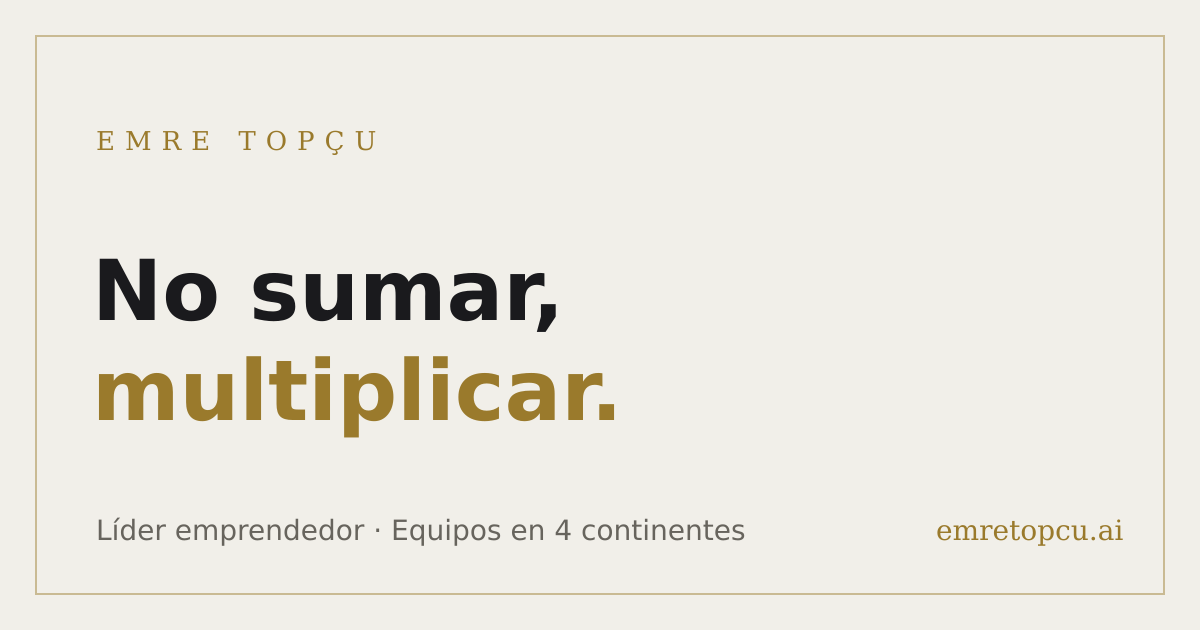
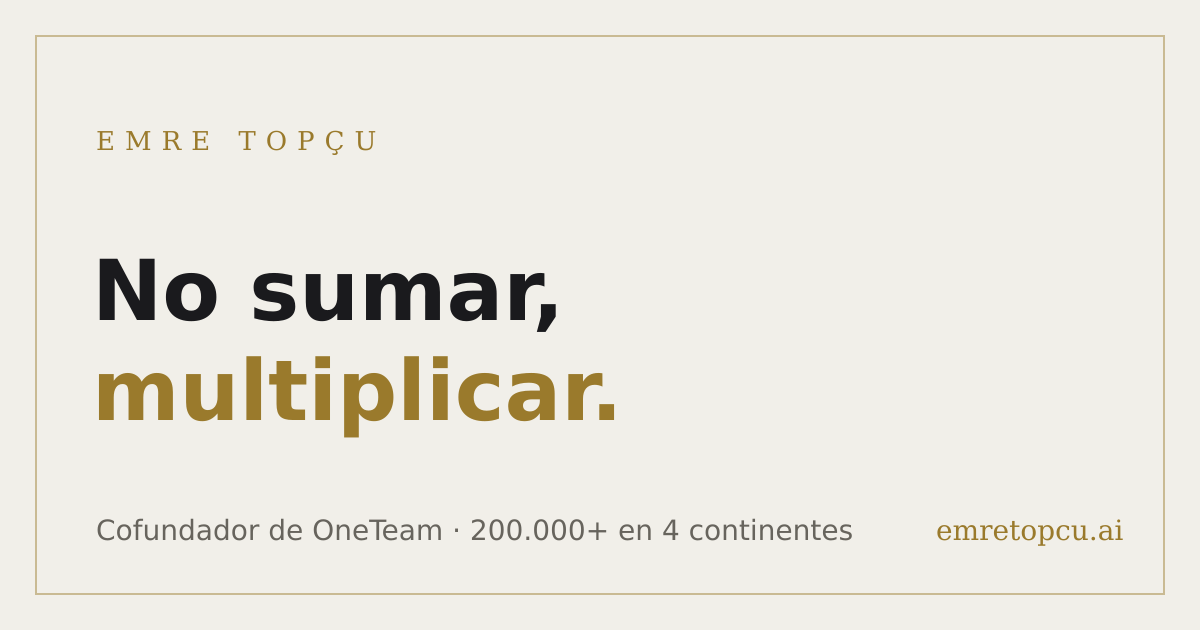
emretopcu.ai: kimlik satırı Instagram biyografisinden türetildi
Hero + SEO + medya kiti + JSON-LD + OG görselleri (6 dil):
"OneTeam kurucu ortağı · 4 kıtada 200.000+ kişilik ağ" ve
"doğrudan satış profesyonelleri yetiştiriyor / ölçeklenebilir
sistemler / gezgin ve yazar" dili — kullanıcının kendi herkese açık
biyografisindeki doğrulanabilir ifadeler.

Claude-Session: https://claude.ai/code/session_01WxT5Cp1egk22cXnqNm4aK9

Changed region(s): [[0.0925, 0.8143, 0.7092, 0.8746]]

diff --git a/emretopcu-com/lib/icerik.ts b/emretopcu-com/lib/icerik.ts
@@ -85,10 +85,10 @@ const TR = {
     baslikSatir2: "katlama.",
     altMetin:
       "Bu sektörde herkes eklemeyi bir şekilde keşfeder. Katlanacağını ise sadece umar — en büyük oyuncular dahil. Kimse, ama kimse tek başına başarmadı.",
-    rol: "4 kıtada ekipler kuran girişimci lider",
+    rol: "OneTeam kurucu ortağı · 4 kıtada 200.000+ kişilik ağ",
   },
   hakkimda: {
-    unvan: "4 kıtada ekipler kuran girişimci lider",
+    unvan: "OneTeam kurucu ortağı · 4 kıtada 200.000+ kişilik ağ",
     paragraflar: [
       "Doğrudan satışla tanışıklığım 2003'e, üniversite yıllarıma kadar uzanır; bir aloe vera markasının distribütörü olarak katalogla çalışmayı öğrendim. Bugünkü işime Şubat 2013'te başladım: sekiz ayda ilk büyük liderlik seviyesine, üç buçuk yılda şirketin en üst liderlik seviyesine ulaştım. Bu yolda en çok inandığım şey şu: kalıcı büyüme karizmayla değil, herkesin uygulayabildiği net bir sistemle olur.",
       "Kocaeli Üniversitesi Uluslararası İlişkiler mezunuyum; yazarım, evli ve iki çocuk babasıyım. 27 yıldır iş hayatının içindeyim, 17 yıldır kendi işlerimi yapıyorum. 38 ülke gezdim; 4 kıtada 250.000'e yakın kişilik bir müşteri ağının kurulmasına vesile oldum. Amerika'dan İngiltere'ye birçok ülkede kişisel gelişim eğitimleri verdim; bugün İstanbul'da yaşıyor, iş insanlarına başarı koçluğu yapıyorum.",
@@ -530,10 +530,10 @@ const EN: Icerik = {
     baslikSatir2: "Multiplying.",
     altMetin:
       "In this industry everyone discovers how to add sooner or later. Whether it multiplies, they only hope — even the biggest players. No one, but no one, ever made it alone.",
-    rol: "Entrepreneurial leader building teams on 4 continents",
+    rol: "Co-founder of OneTeam · 200,000+ people across 4 continents",
   },
   hakkimda: {
-    unvan: "Entrepreneurial leader building teams on 4 continents",
+    unvan: "Co-founder of OneTeam · 200,000+ people across 4 continents",
     paragraflar: [
       "My history with direct sales goes back to 2003, my university years, when I distributed an aloe vera brand through a catalog model. I started my current business in February 2013: the company's first major leadership level in eight months, its very top level in three and a half years. What I believe most on this path: lasting growth comes not from charisma, but from a clear system anyone can apply.",
       "I'm a graduate of International Relations at Kocaeli University; a writer, married, father of two. I've been in business for 27 years, running my own ventures for 17. I've traveled to 38 countries and helped build a customer network of nearly 250,000 people across 4 continents. I've given personal-development trainings in many countries from the US to the UK; today I live in Istanbul and coach business people toward success.",

diff --git a/emretopcu-com/lib/icerikRu.ts b/emretopcu-com/lib/icerikRu.ts
@@ -14,10 +14,10 @@ export const RU: Icerik = {
     baslikSatir2: "а умножение.",
     altMetin:
       "В этой индустрии сложение рано или поздно открывает каждый. А что оно умножится — лишь надеются, даже самые крупные игроки. Никто, вообще никто не добился успеха в одиночку.",
-    rol: "Предприниматель и лидер — команды на 4 континентах",
+    rol: "Сооснователь OneTeam · Более 200 000 человек на 4 континентах",
   },
   hakkimda: {
-    unvan: "Предприниматель и лидер — команды на 4 континентах",
+    unvan: "Сооснователь OneTeam · Более 200 000 человек на 4 континентах",
     paragraflar: [
       "Моё знакомство с прямыми продажами началось в 2003 году, ещё в университетские годы: как дистрибьютор бренда алоэ вера я учился работать с каталогом. Своё сегодняшнее дело я начал в феврале 2013-го: за восемь месяцев достиг первого крупного уровня лидерства, за три с половиной года — высшего уровня компании. Во что я верю на этом пути больше всего: устойчивый рост приходит не от харизмы, а от ясной системы, которую может применить каждый.",
       "Я выпускник факультета международных отношений Университета Коджаэли; писатель, женат, отец двоих детей. 27 лет я в деловой жизни, 17 лет веду собственные дела. Объездил 38 стран; помог построить клиентскую сеть почти в 250 000 человек на 4 континентах. Проводил тренинги по личностному росту во многих странах — от Америки до Англии; сегодня живу в Стамбуле и работаю коучем успеха для предпринимателей.",

diff --git a/emretopcu-com/lib/icerikDe.ts b/emretopcu-com/lib/icerikDe.ts
@@ -14,10 +14,10 @@ export const DE: Icerik = {
     baslikSatir2: "multiplizieren.",
     altMetin:
       "In dieser Branche entdeckt früher oder später jeder, wie man addiert. Ob es sich multipliziert, erhoffen sie nur — selbst die größten Akteure. Niemand, wirklich niemand, hat es allein geschafft.",
-    rol: "Unternehmer und Leader mit Teams auf 4 Kontinenten",
+    rol: "OneTeam-Mitgründer · Über 200.000 Menschen auf 4 Kontinenten",
   },
   hakkimda: {
-    unvan: "Unternehmer und Leader mit Teams auf 4 Kontinenten",
+    unvan: "OneTeam-Mitgründer · Über 200.000 Menschen auf 4 Kontinenten",
     paragraflar: [
       "Meine Berührung mit dem Direktvertrieb reicht bis 2003 zurück, in meine Studienzeit; als Vertriebspartner einer Aloe-vera-Marke lernte ich, mit dem Katalog zu arbeiten. Mein heutiges Geschäft begann ich im Februar 2013: in acht Monaten die erste große Führungsstufe, in dreieinhalb Jahren die höchste Stufe des Unternehmens. Woran ich auf diesem Weg am meisten glaube: Nachhaltiges Wachstum entsteht nicht durch Charisma, sondern durch ein klares System, das jeder anwenden kann.",
       "Ich bin Absolvent der Internationalen Beziehungen an der Kocaeli Üniversitesi; Autor, verheiratet und Vater von zwei Kindern. Seit 27 Jahren bin ich im Berufsleben, seit 17 Jahren führe ich eigene Unternehmungen. Ich habe 38 Länder bereist; ich war Wegbereiter für den Aufbau eines Kundennetzwerks von fast 250.000 Menschen auf 4 Kontinenten. Von Amerika bis England habe ich in vielen Ländern Persönlichkeitstrainings gegeben; heute lebe ich in Istanbul und begleite Unternehmer als Erfolgscoach.",

diff --git a/emretopcu-com/lib/icerikAz.ts b/emretopcu-com/lib/icerikAz.ts
@@ -14,10 +14,10 @@ export const AZ: Icerik = {
     baslikSatir2: "qatlama.",
     altMetin:
       "Bu sektorda əlavə etməyi hər kəs bir şəkildə kəşf edir. Qatlanacağına isə yalnız ümid edir — ən böyük oyunçular da daxil. Heç kim, amma heç kim tək başına uğur qazanmayıb.",
-    rol: "4 qitədə komandalar quran sahibkar lider",
+    rol: "OneTeam həmtəsisçisi · 4 qitədə 200.000+ nəfərlik şəbəkə",
   },
   hakkimda: {
-    unvan: "4 qitədə komandalar quran sahibkar lider",
+    unvan: "OneTeam həmtəsisçisi · 4 qitədə 200.000+ nəfərlik şəbəkə",
     paragraflar: [
       "Birbaşa satışla tanışlığım 2003-cü ilə, universitet illərimə gedib çıxır; bir aloe vera markasının distribütoru kimi kataloqla işləməyi öyrəndim. Bugünkü işimə 2013-cü ilin fevralında başladım: səkkiz aya ilk böyük liderlik səviyyəsinə, üç il yarıma şirkətin ən yüksək səviyyəsinə çatdım. Bu yolda ən çox inandığım şey budur: qalıcı böyümə xarizma ilə deyil, hər kəsin tətbiq edə bildiyi aydın bir sistemlə olur.",
       "Kocaeli Universitetinin Beynəlxalq Münasibətlər fakültəsini bitirmişəm; yazıçıyam, evliyəm, iki övlad atasıyam. 27 ildir iş həyatının içindəyəm, 17 ildir öz işlərimi qururam. 38 ölkə gəzmişəm; 4 qitədə 250.000-ə yaxın nəfərlik müştəri şəbəkəsinin qurulmasına vəsilə olmuşam. Amerikadan İngiltərəyə qədər bir çox ölkədə şəxsi inkişaf təlimləri keçmişəm; bu gün İstanbulda yaşayıram, iş adamlarına uğur koçluğu edirəm.",

diff --git a/emretopcu-com/lib/icerikEs.ts b/emretopcu-com/lib/icerikEs.ts
@@ -14,10 +14,10 @@ export const ES: Icerik = {
     baslikSatir2: "multiplicar.",
     altMetin:
       "En este sector, tarde o temprano todos descubren cómo sumar. Que se multiplique, solo lo esperan — incluso los mayores actores. Nadie, absolutamente nadie, lo logró en solitario.",
-    rol: "Líder emprendedor con equipos en 4 continentes",
+    rol: "Cofundador de OneTeam · Más de 200.000 personas en 4 continentes",
   },
   hakkimda: {
-    unvan: "Líder emprendedor con equipos en 4 continentes",
+    unvan: "Cofundador de OneTeam · Más de 200.000 personas en 4 continentes",
     paragraflar: [
       "Mi contacto con la venta directa se remonta a 2003, a mis años de universidad; como distribuidor de una marca de aloe vera aprendí a trabajar con catálogo. Mi negocio actual lo empecé en febrero de 2013: el primer gran nivel de liderazgo en ocho meses, el nivel más alto de la compañía en tres años y medio. Lo que más creo en este camino es esto: el crecimiento duradero no viene del carisma, sino de un sistema claro que cualquiera puede aplicar.",
       "Soy licenciado en Relaciones Internacionales por la Kocaeli Üniversitesi; escritor, casado y padre de dos hijos. Llevo 27 años en la vida laboral y 17 al frente de mis propios proyectos. He recorrido 38 países; fui el artífice de la construcción de una red de clientes de casi 250.000 personas en 4 continentes. De Estados Unidos a Inglaterra, di formaciones de desarrollo personal en muchos países; hoy vivo en Estambul y hago coaching de éxito a empresarios.",

diff --git a/emretopcu-com/app/medya/page.tsx b/emretopcu-com/app/medya/page.tsx
@@ -16,7 +16,7 @@ export const metadata: Metadata = {
 };
 
 const BIO_TEK =
-  "Emre Topçu — doğrudan satışta 4 kıtada ekipler kurmuş, liderler yetiştiren ve bu işi sistemle yapan bir girişimci lider.";
+  "Emre Topçu — OneTeam kurucu ortağı; 4 kıtada 200.000+ kişilik bir ağ. Doğrudan satış profesyonelleri yetiştiren, ölçeklenebilir sistemler kuran bir girişimci; gezgin ve yazar.";
 
 const BIO_KISA =
   "Emre Topçu, 2013'te başladığı işte sekiz ayda ilk büyük liderlik seviyesine, üç buçuk yılda şirketin en üst liderlik seviyesine ulaştı. Bugün 4 kıtada 250.000'e yakın kişilik bir müşteri ağının kurulmasına vesile olmuş; İstanbul'da yaşıyor ve iş insanlarına başarı koçluğu yapıyor. 'İlk 72 Saat' (2017) kitabının yazarı.";

diff --git a/emretopcu-com/app/ru/page.tsx b/emretopcu-com/app/ru/page.tsx
@@ -4,7 +4,7 @@ import Zirve from "@/components/varyantlar/Zirve";
 export const metadata: Metadata = {
   title: "Эмре Топчу | Лидер прямых продаж",
   description:
-    "Предприниматель и лидер с командами на 4 континентах: строит команды, растит лидеров и делает это системно.",
+    "Сооснователь OneTeam: более 200 000 человек на 4 континентах. Готовит профессионалов прямых продаж и строит масштабируемые системы.",
   alternates: {
     canonical: "/ru",
     languages: { tr: "/", en: "/en", de: "/de", es: "/es", ru: "/ru", az: "/az" },

diff --git a/emretopcu-com/lib/jsonld.ts b/emretopcu-com/lib/jsonld.ts
@@ -9,10 +9,10 @@ export function jsonLd() {
     "@type": "Person",
     "@id": `${SITE}/#emretopcu`,
     name: "Emre Topçu",
-    jobTitle: "Girişimci ve liderlik mentoru",
+    jobTitle: "OneTeam kurucu ortağı",
     worksFor: { "@type": "Organization", name: "One Team Global" },
     description:
-      "Doğrudan satış lideri. 4 kıtada ekipler kuran, liderler yetiştiren ve bu işi sistemle yapan bir girişimci.",
+      "OneTeam kurucu ortağı. Doğrudan satış profesyonelleri yetiştiren, ölçeklenebilir sistemler kuran bir girişimci; gezgin ve yazar.",
     url: SITE,
     image: `${SITE}/og.png`,
     homeLocation: { "@type": "Place", name: "İstanbul, Türkiye" },

diff --git a/emretopcu-com/app/layout.tsx b/emretopcu-com/app/layout.tsx
@@ -29,10 +29,11 @@ export const metadata: Metadata = {
   metadataBase: new URL("https://emretopcu.ai"),
   title: "Emre Topçu | Doğrudan satış lideri",
   description:
-    "4 kıtada ekipler kuran girişimci lider Emre Topçu. Liderler yetiştiren ve bu işi sistemle yapan bir doğrudan satış lideri.",
+    "OneTeam kurucu ortağı Emre Topçu — 4 kıtada 200.000+ kişilik ağ. Doğrudan satış profesyonelleri yetiştiriyor, ölçeklenebilir sistemler kuruyor.",
   keywords: [
     "Emre Topçu",
     "doğrudan satış",
+    "OneTeam",
     "girişimcilik",
     "ekip kurma",
     "liderlik",

diff --git a/emretopcu-com/app/az/page.tsx b/emretopcu-com/app/az/page.tsx
@@ -4,7 +4,7 @@ import Zirve from "@/components/varyantlar/Zirve";
 export const metadata: Metadata = {
   title: "Emre Topçu | Birbaşa satış lideri",
   description:
-    "4 qitədə komandalar quran sahibkar lider; liderlər yetişdirən və bu işi sistemlə görən bir birbaşa satış lideri.",
+    "OneTeam həmtəsisçisi — 4 qitədə 200.000+ nəfərlik şəbəkə; birbaşa satış peşəkarları yetişdirir və miqyaslana bilən sistemlər qurur.",
   alternates: {
     canonical: "/az",
     languages: { tr: "/", en: "/en", de: "/de", es: "/es", ru: "/ru", az: "/az" },

diff --git a/emretopcu-com/app/en/page.tsx b/emretopcu-com/app/en/page.tsx
@@ -4,7 +4,7 @@ import Zirve from "@/components/varyantlar/Zirve";
 export const metadata: Metadata = {
   title: "Emre Topçu | Leadership, team and system",
   description:
-    "An entrepreneurial leader building teams on 4 continents — raising leaders and doing it all with a system.",
+    "Co-founder of OneTeam with 200,000+ people across 4 continents — training direct-sales professionals and building scalable systems.",
   alternates: {
     canonical: "/en",
     languages: { tr: "/", en: "/en", de: "/de", es: "/es", ru: "/ru", az: "/az" },

diff --git a/emretopcu-com/app/de/page.tsx b/emretopcu-com/app/de/page.tsx
@@ -4,7 +4,7 @@ import Zirve from "@/components/varyantlar/Zirve";
 export const metadata: Metadata = {
   title: "Emre Topçu | Direktvertriebs-Leader",
   description:
-    "Ein Unternehmer und Leader mit Teams auf 4 Kontinenten — er baut Teams auf, entwickelt Führungskräfte und macht alles mit System.",
+    "OneTeam-Mitgründer mit über 200.000 Menschen auf 4 Kontinenten — er bildet Direktvertriebs-Profis aus und baut skalierbare Systeme.",
   alternates: {
     canonical: "/de",
     languages: {
